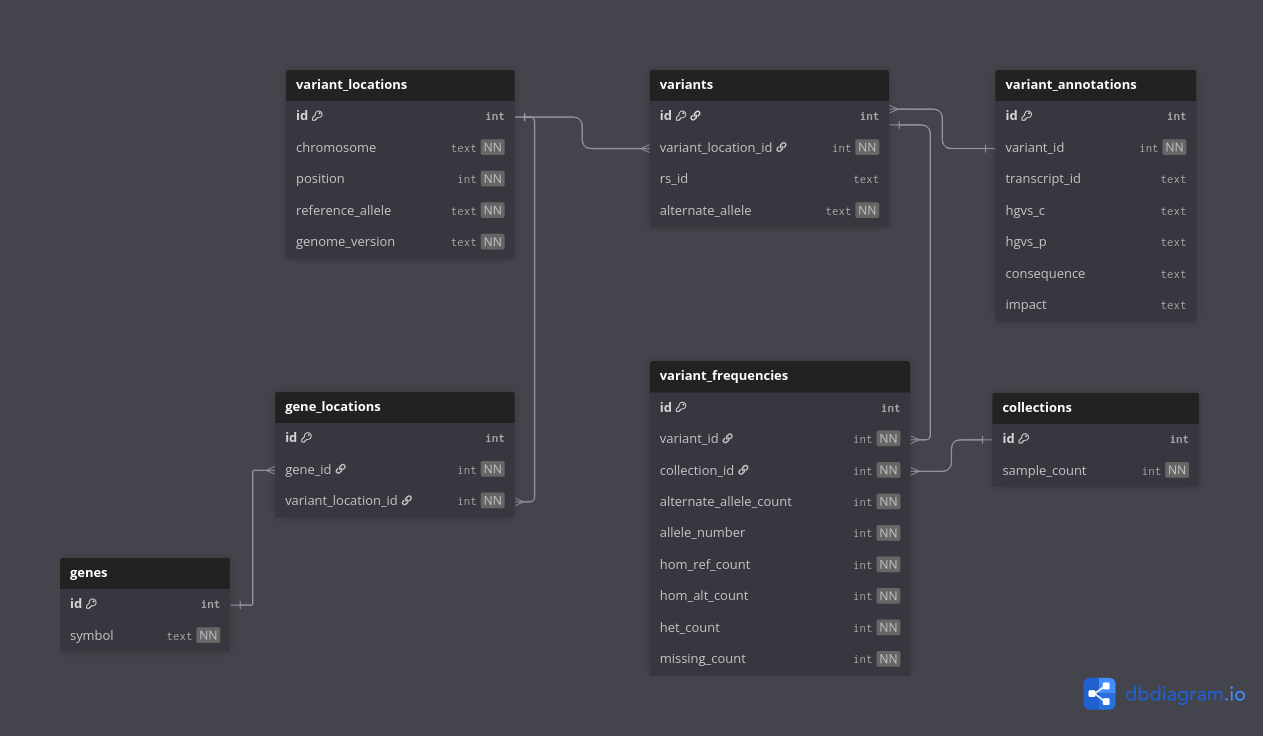
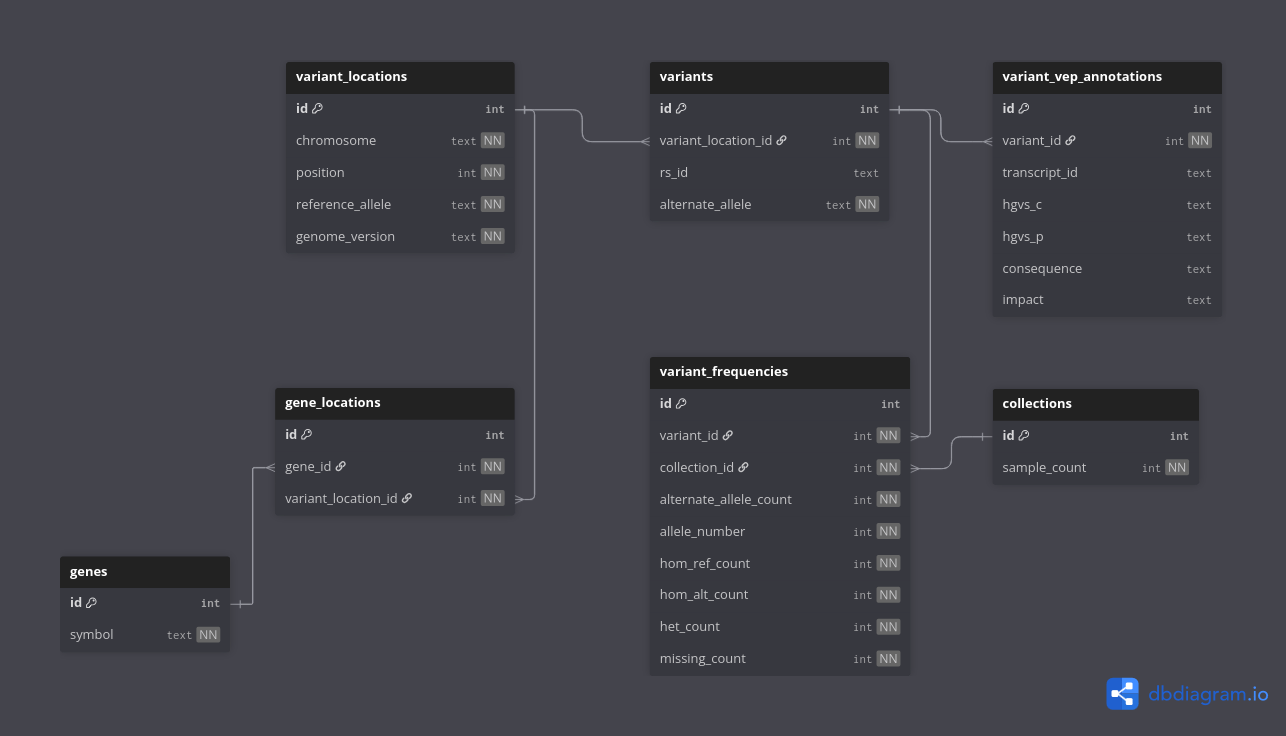
Update annotations table name

diff --git a/src/utils/db_utils.py b/src/utils/db_utils.py
@@ -119,7 +119,7 @@ def create_tables(dbname: str, user: str, password: str, host: str) -> None:
             """)
 
     cur.execute("""
-            CREATE TABLE variant_annotations(
+            CREATE TABLE variant_vep_annotations(
                 id SERIAL PRIMARY KEY,
                 variant_id INTEGER NOT NULL,
                 transcript_id TEXT,
@@ -211,15 +211,15 @@ def insert_gene_location() -> str:
                         """
     return gene_location_insert_query
 
-def insert_variant_annotation() -> str:
+def insert_variant_vep_annotation() -> str:
     """
-    Returns the SQL query string for inserting a variant annotation in the 'variant_annotations' table.
+    Returns the SQL query string for inserting a variant annotation in the 'variant_vep_annotations' table.
     """
-    variant_annotation_insert_query = """
-                            INSERT INTO variant_annotations (variant_id, transcript_id, hgvs_c, hgvs_p, consequence, impact)
+    variant_vep_annotation_insert_query = """
+                            INSERT INTO variant_vep_annotations (variant_id, transcript_id, hgvs_c, hgvs_p, consequence, impact)
                             VALUES (%s, %s, %s, %s, %s, %s)
                         """
-    return variant_annotation_insert_query
+    return variant_vep_annotation_insert_query
 
 def create_indexes(dbname: str, user: str, password: str, host: str) -> None:
     """

diff --git a/src/vcf2db.py b/src/vcf2db.py
@@ -74,7 +74,7 @@ def process_data(vcf_path: str, db_name: str, db_user: str, db_password: str, db
                         if csq_annotations and csq_index:
                             annotations = extract_annotations_from_csq(csq_annotations, csq_index)
                             for ann in annotations:
-                                cur.execute(insert_variant_annotation(), (
+                                cur.execute(insert_variant_vep_annotation(), (
                                     variant_id,
                                     ann['transcript_id'],
                                     ann['hgvs_c'],
